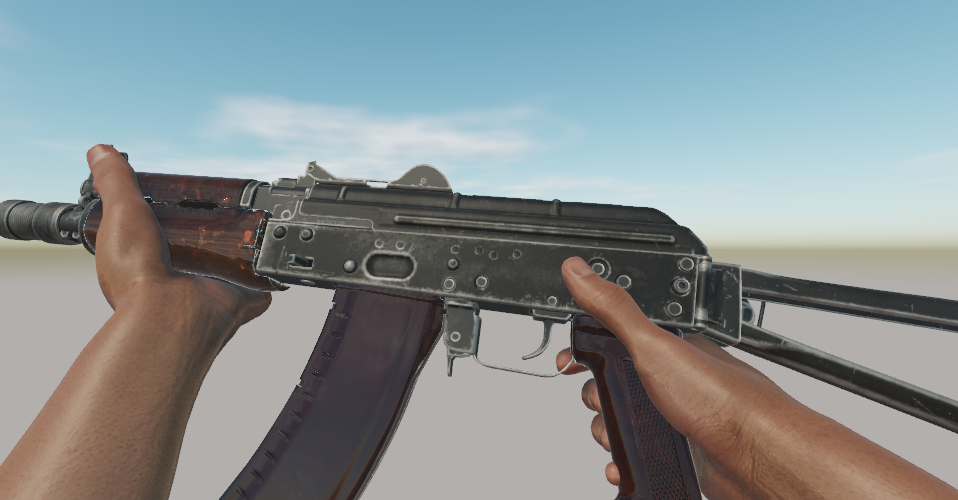
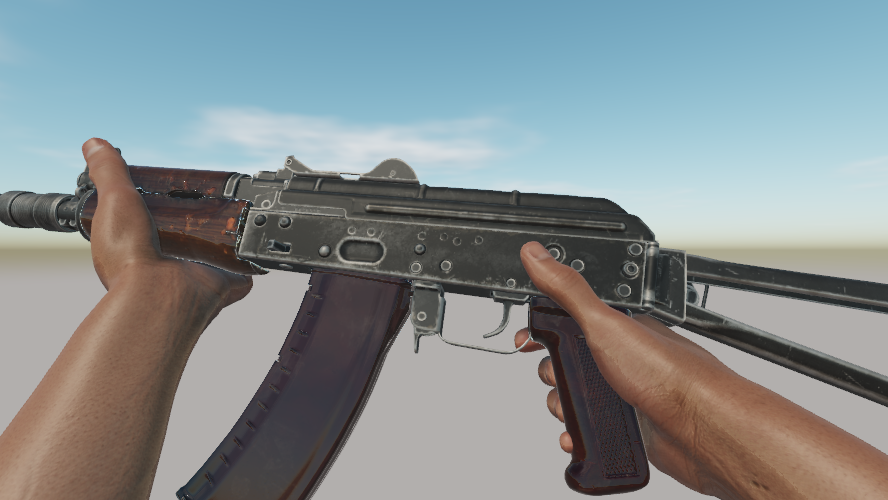
Animate mechanical rig translations and default Game view to 16:9

Changed region(s): [[0.0, 0.27, 1.0, 1.0], [0.2128, 0.18, 0.5473, 0.3]]

diff --git a/src/anim/Animation.cpp b/src/anim/Animation.cpp
@@ -76,9 +76,12 @@ ClipBinding BindClip(const AnimationClip& clip, const Skeleton& skeleton)
     {
         auto it = clip.trackIndex.find(skeleton.names[i]);
         if (it != clip.trackIndex.end()) b.trackForBone[i] = it->second;
-        // Unreal-style IK and marker bones are targets in space, not bones with lengths: keep their translation.
+        // Mechanical rigs have no hips to retarget and depend on local translation for moving parts
+        // (for example an AK magazine and bolt). Keep their authored motion. Character rigs retain
+        // their target bone lengths except for IK and marker bones.
         const std::string& n = skeleton.names[i];
-        if (n.rfind("ik_", 0) == 0 || n == "camera_bone" || n == "interaction" || n == "center_of_mass") b.animatedTranslation[i] = 1;
+        if (skeleton.pelvis < 0 || n.rfind("ik_", 0) == 0 || n == "camera_bone" || n == "interaction" || n == "center_of_mass")
+            b.animatedTranslation[i] = 1;
     }
     // Rigs with different proportions: scale the hip translation by the hip height ratio.
     if (skeleton.pelvis >= 0 && b.trackForBone[skeleton.pelvis] >= 0)
@@ -108,8 +111,8 @@ void SampleClip(const AnimationClip& clip, const ClipBinding& binding, const Ske
         }
         const BoneTransform sampled = clip.SampleTrack(track, time);
         BoneTransform& x = out[i];
-        // Retarget: rotations come from the clip; translations only for the root and hips (the rest keep the
-        // target's bone lengths), like Unreal's skeleton-based retargeting.
+        // Character retargeting preserves target limb lengths; mechanical rigs and marker bones
+        // use the clip's local translations so their moving parts remain animated.
         x.r = sampled.r;
         x.s = skeleton.rest[i].s;
         const bool isRoot = static_cast<int>(i) == skeleton.root;

diff --git a/src/editor/Editor.cpp b/src/editor/Editor.cpp
@@ -1254,6 +1254,17 @@ void Editor::RunPlaytest()
             }
             LOG_INFO("[playtest] t=%.2f %s pos (%.3f %.3f %.3f) yaw %.1f state %s fps %.0f", m_PlayTime, e.name.c_str(), pos.x, pos.y, pos.z,
                      e.transform.euler.y, state.c_str(), m_Fps);
+            if (e.name == "AK Weapon")
+                for (const char* bone : { "magazine", "mag2", "bolt" })
+                {
+                    glm::mat4 boneModel(1.0f);
+                    if (m_Animation.BoneModelMatrix(e.id, bone, boneModel))
+                    {
+                        const glm::vec3 p(boneModel[3]), z(boneModel[2]);
+                        LOG_INFO("[playtest] weapon %s local (%.4f %.4f %.4f) Z(%.4f %.4f %.4f)",
+                                 bone, p.x, p.y, p.z, z.x, z.y, z.z);
+                    }
+                }
             glm::mat4 headBone(1.0f);
             if (m_Animation.BoneModelMatrix(e.id, "head", headBone))
             {

diff --git a/src/editor/Editor.h b/src/editor/Editor.h
@@ -291,7 +291,7 @@ private:
     // Game view state
     bool m_GameViewVisible = false;
     ImVec2 m_GameViewSize{ 1, 1 };
-    int m_GameAspect = 0; // 0 free, 1 16:9, 2 16:10, 3 4:3, 4 1:1
+    int m_GameAspect = 1; // 0 free, 1 16:9, 2 16:10, 3 4:3, 4 1:1
     bool m_ShowStats = false;
     bool m_MaximizeOnPlay = false;
 
